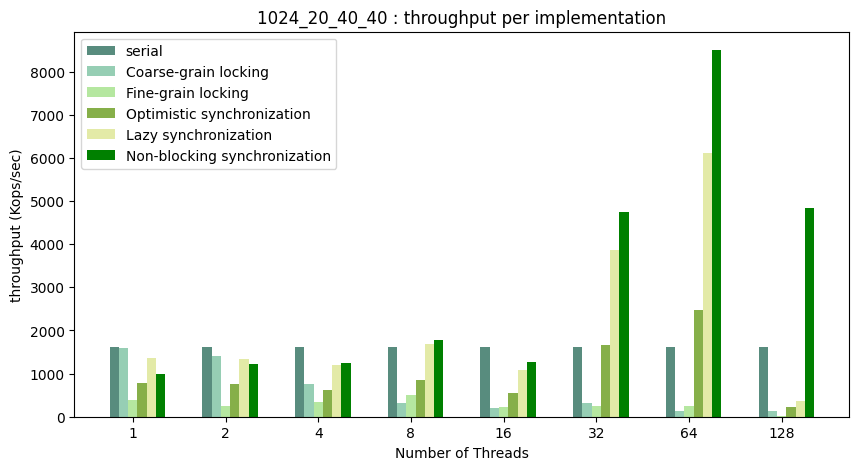
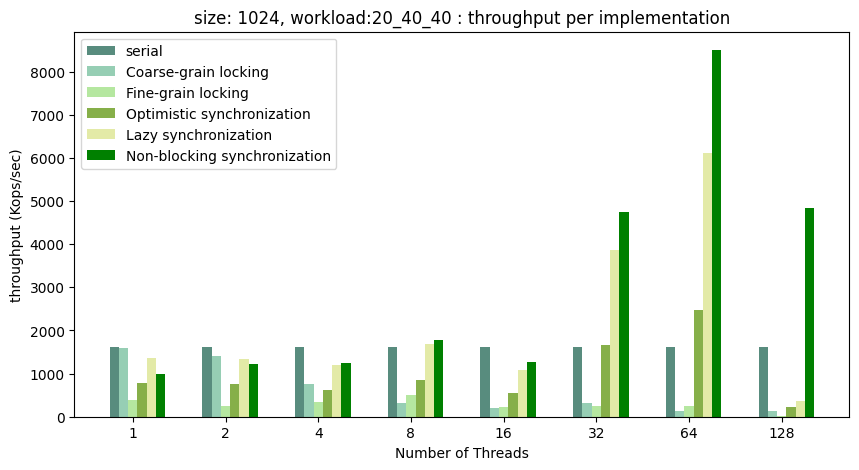
plots

Changed region(s): [[0.2119, 0.0, 0.8475, 0.0596]]

diff --git a/Lab4/plot_conc.py b/Lab4/plot_conc.py
@@ -51,7 +51,7 @@ for impl in implementation[1:]:
                 line = fp.readline()
 print(throughputF["1024"]["0_50_50"])  
 
-def plot_one(input_, name):
+def plot_one(input_, name, title):
     fig = plt.figure(figsize = (10, 5))
     colors= ["#588c7e", "#96ceb4" ,"#b5e7a0","#86af49", "#e3eaa7",  "green","mediumaquamarine", "teal"]
     legend_ = []
@@ -62,15 +62,14 @@ def plot_one(input_, name):
     plt.xticks(np.arange(len(threads)) , threads)
     plt.xlabel("Number of Threads")
     plt.ylabel("throughput (Kops/sec)")
-    plt.title(f"{name[1:]} : throughput per implementation")
+    plt.title(f"{title} : throughput per implementation")
     plt.legend((legend_[0], legend_[1], legend_[2], legend_[3], legend_[4], legend_[5]), ("serial","Coarse-grain locking","Fine-grain locking","Optimistic synchronization","Lazy synchronization","Non-blocking synchronization"))
     plt.savefig(f"plot_throughput{name}", bbox_inches="tight")
 
 for size_ in list_size:
             for wl in workload:
                     input_ = throughputF[size_][wl]
-
-                    plot_one(input_, f"_{size_}_{wl}")
+                    plot_one(input_, f"_{size_}_{wl}", f"size: {size_}, workload:{wl}")
 # def plot_time_speedup():
 #     throughputF = {}
 #     for lock in implementation:
